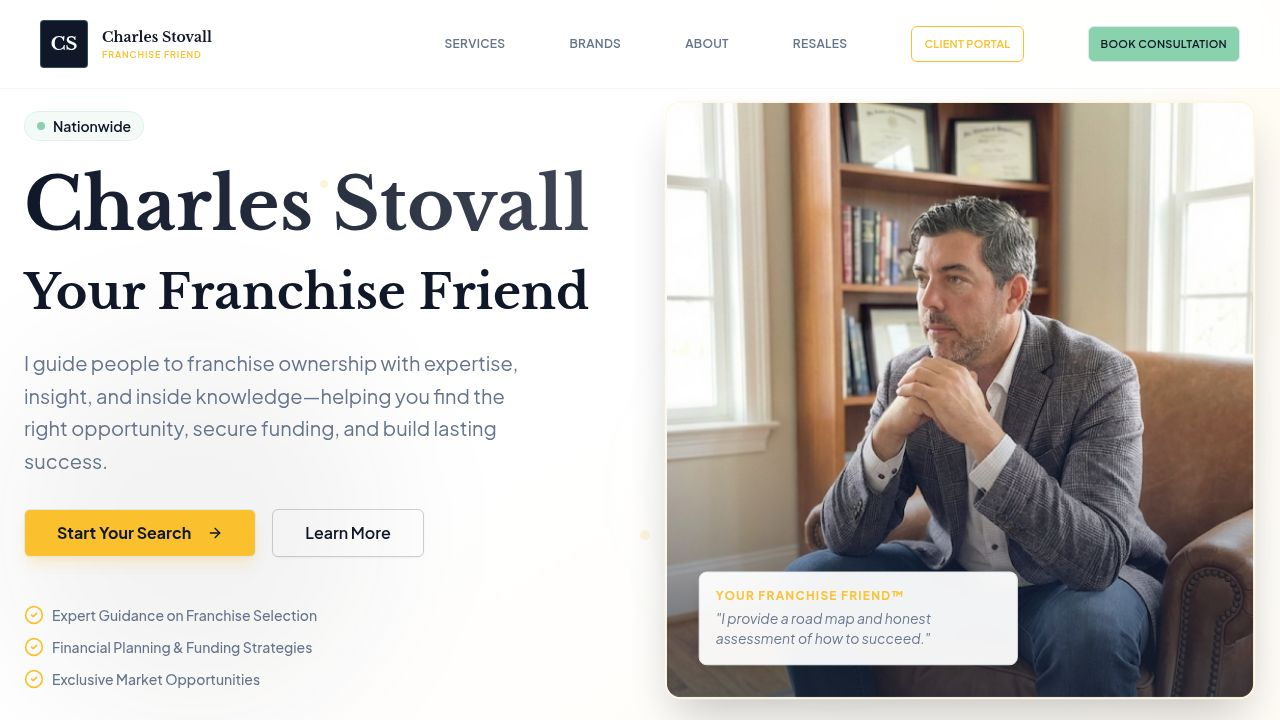
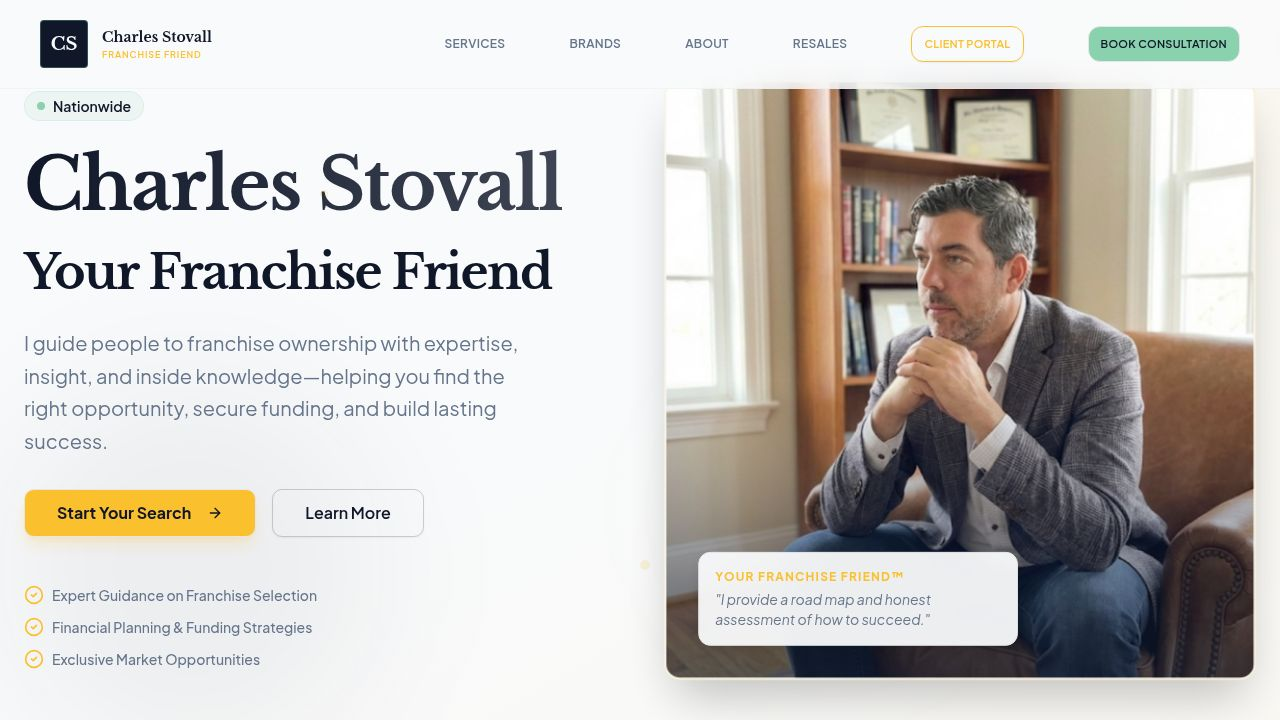
Update website styling to a modern Figma aesthetic
Refactor global CSS variables, button variants, and card component styles to implement a modern Figma-inspired design aesthetic.

Replit-Commit-Author: Agent
Replit-Commit-Session-Id: ba06c198-ae2a-433e-9b72-3d3071ead013
Replit-Commit-Checkpoint-Type: full_checkpoint
Replit-Commit-Event-Id: de97c222-6e08-48ba-960e-c41d370de9ae
Replit-Commit-Screenshot-Url: https://storage.googleapis.com/screenshot-production-us-central1/515b29f0-1d64-4138-b143-4a5747dfb7ff/ba06c198-ae2a-433e-9b72-3d3071ead013/sYnf6F1

diff --git a/client/src/index.css b/client/src/index.css
@@ -29,9 +29,9 @@
 }
 
 :root {
-  /* Navy Blue and Gold Theme */
-  --background: 0 0% 100%;
-  --foreground: 222 47% 11%; /* Deep Navy */
+  /* Modern Figma-style Theme */
+  --background: 210 20% 98%; /* Light gray #F9FAFB */
+  --foreground: 220 13% 18%; /* Charcoal #1F2937 */
 
   /* Primary: Navy Blue */
   --primary: 222 47% 11%;
@@ -43,21 +43,21 @@
 
   /* Accent: Soft Blue/Gray */
   --accent: 210 40% 96.1%;
-  --accent-foreground: 222 47% 11%;
+  --accent-foreground: 220 13% 18%;
 
   /* Accent Pop: Soft Green */
   --accent-pop: 150 45% 68%;
 
   --muted: 210 40% 96.1%;
-  --muted-foreground: 215.4 16.3% 46.9%;
+  --muted-foreground: 215 16% 47%;
 
   --card: 0 0% 100%;
-  --card-foreground: 222 47% 11%;
+  --card-foreground: 220 13% 18%;
   
-  --border: 214.3 31.8% 91.4%;
-  --input: 214.3 31.8% 91.4%;
+  --border: 220 13% 91%; /* #E5E7EB */
+  --input: 220 13% 91%;
   
-  --radius: 0.5rem;
+  --radius: 0.75rem;
 }
 
 .dark {
@@ -94,6 +94,26 @@
     @apply font-sans antialiased bg-background text-foreground;
   }
   h1, h2, h3, h4, h5, h6 {
-    @apply font-serif;
+    @apply font-serif tracking-tight;
   }
+}
+
+/* Modern Figma-style card styling */
+.figma-card {
+  @apply bg-white border border-border rounded-xl shadow-sm;
+  box-shadow: 0 4px 6px -1px rgba(0, 0, 0, 0.05);
+}
+
+/* Button hover effects */
+button, .btn, [role="button"] {
+  @apply transition-all duration-200;
+}
+
+button:hover:not(:disabled), .btn:hover:not(:disabled) {
+  transform: scale(1.02);
+}
+
+/* Section spacing */
+section {
+  @apply py-20;
 }

diff --git a/client/src/components/ui/button.tsx b/client/src/components/ui/button.tsx
@@ -5,8 +5,7 @@ import { cva, type VariantProps } from "class-variance-authority"
 import { cn } from "@/lib/utils"
 
 const buttonVariants = cva(
-  "inline-flex items-center justify-center gap-2 whitespace-nowrap rounded-md text-sm font-medium transition-colors focus-visible:outline-none focus-visible:ring-1 focus-visible:ring-ring disabled:pointer-events-none disabled:opacity-50 [&_svg]:pointer-events-none [&_svg]:size-4 [&_svg]:shrink-0" +
-" hover-elevate active-elevate-2",
+  "inline-flex items-center justify-center gap-2 whitespace-nowrap rounded-lg text-sm font-semibold transition-all duration-200 focus-visible:outline-none focus-visible:ring-2 focus-visible:ring-ring focus-visible:ring-offset-2 disabled:pointer-events-none disabled:opacity-50 [&_svg]:pointer-events-none [&_svg]:size-4 [&_svg]:shrink-0 hover:scale-[1.02] active:scale-[0.98]",
   {
     variants: {
       variant: {

diff --git a/client/src/components/ui/card.tsx b/client/src/components/ui/card.tsx
@@ -9,7 +9,7 @@ const Card = React.forwardRef<
   <div
     ref={ref}
     className={cn(
-      "rounded-xl border bg-card text-card-foreground shadow",
+      "rounded-xl border border-border bg-white text-card-foreground shadow-[0_4px_6px_-1px_rgba(0,0,0,0.05)]",
       className
     )}
     {...props}
